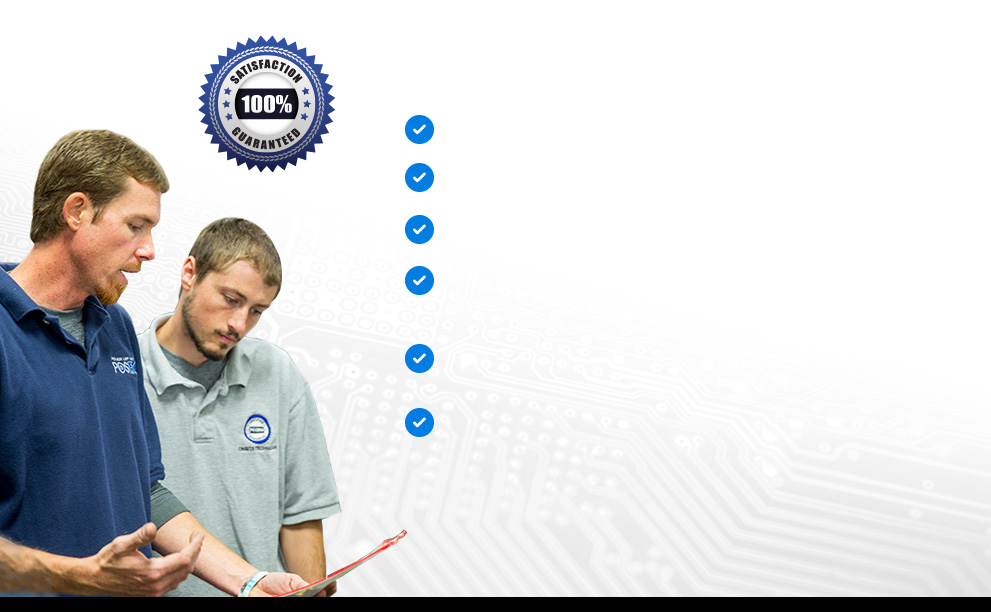
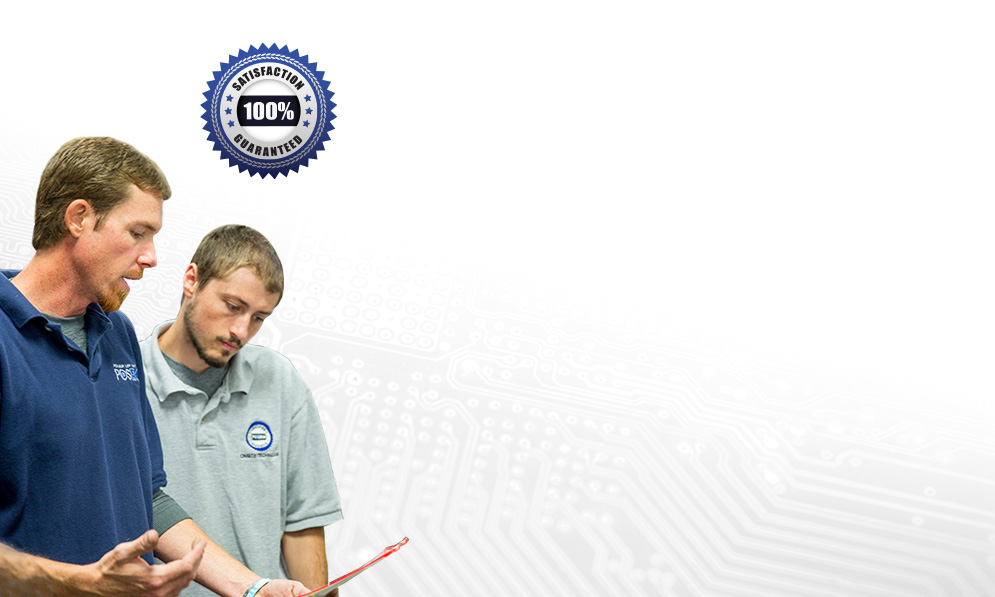
blue check fix

diff --git a/templates/posrg-mobile/less/mobile.less b/templates/posrg-mobile/less/mobile.less
@@ -2181,6 +2181,17 @@ div#comments {
     position: absolute;
     width: 270px;
 }
+
+.repair-banner p:before {
+    content: '';
+    position: absolute;
+    height: 31px;
+    width: 31px;
+    background: url(../images/blue-check.png) center center no-repeat;
+    margin-left: -40px;
+    margin-top: 0px
+}
+
 .repair-banner {
 	p {
 		&:nth-child(6) {
@@ -2235,6 +2246,16 @@ div#comments {
     max-width: 276px;
     margin-left: 125px;
 }
+
+.why-choose-repair p:before {
+    content: '';
+    position: absolute;
+    height: 31px;
+    width: 31px;
+    background: url(../images/blue-check.png) center center no-repeat;
+    margin-left: -40px;
+}
+
 .why-choose-repair {
 	p {
 		&:nth-child(3) {
@@ -2310,7 +2331,20 @@ div#comments {
     background: url(../images/repair-services-mobile.jpg);
     height: 1075px;
     width: 480px;
+    border-bottom: solid 15px #000;
 }
+
+.repair-services p:before {
+    content: '';
+    position: absolute;
+    height: 31px;
+    width: 31px;
+    background: url(../images/blue-check.png) center center no-repeat;
+    margin-left: -40px;
+    margin-top: 0px;
+}
+
+
 .repair-services .h1-mobile {
 	font-size: 21px !important;
     text-align: center;

diff --git a/templates/posrg-mobile/css/mobile.css b/templates/posrg-mobile/css/mobile.css
@@ -2099,6 +2099,15 @@ div#comments {
   position: absolute;
   width: 270px;
 }
+.repair-banner p:before {
+  content: '';
+  position: absolute;
+  height: 31px;
+  width: 31px;
+  background: url(../images/blue-check.png) center center no-repeat;
+  margin-left: -40px;
+  margin-top: 0px;
+}
 .repair-banner p:nth-child(6) {
   margin-left: 123px;
   margin-top: 18px;
@@ -2147,6 +2156,14 @@ div#comments {
   font-weight: 100;
   max-width: 276px;
   margin-left: 125px;
+}
+.why-choose-repair p:before {
+  content: '';
+  position: absolute;
+  height: 31px;
+  width: 31px;
+  background: url(../images/blue-check.png) center center no-repeat;
+  margin-left: -40px;
 }
 .why-choose-repair p:nth-child(3) {
   margin-top: 33px;
@@ -2219,6 +2236,16 @@ div#comments {
   background: url(../images/repair-services-mobile.jpg);
   height: 1075px;
   width: 480px;
+  border-bottom: solid 15px #000;
+}
+.repair-services p:before {
+  content: '';
+  position: absolute;
+  height: 31px;
+  width: 31px;
+  background: url(../images/blue-check.png) center center no-repeat;
+  margin-left: -40px;
+  margin-top: 0px;
 }
 .repair-services .h1-mobile {
   font-size: 21px !important;

diff --git a/templates/posrg/css/style.css b/templates/posrg/css/style.css
@@ -3869,6 +3869,17 @@ div#comments {
     letter-spacing: .02em;
     position: absolute;
 }
+
+.repair-banner p:before {
+    content: '';
+    position: absolute;
+    height: 31px;
+    width: 31px;
+    background: url(../images/blue-check.png) center center no-repeat;
+    margin-left: -40px;
+    margin-top: -6px;
+}
+
 .repair-banner p:nth-child(6) {
 	left: 170px;
     top: 462px;
@@ -3916,6 +3927,15 @@ div#comments {
     font-weight: 100;
     max-width: 322px;
 }
+.why-choose-repair p:before {
+    content: '';
+    position: absolute;
+    height: 31px;
+    width: 31px;
+    background: url(../images/blue-check.png) center center no-repeat;
+    margin-left: -40px;
+}
+
 .why-choose-repair p:nth-child(3) {
     margin-left: 141px;
     margin-top: 39px;
@@ -4014,6 +4034,17 @@ div#comments {
     max-width: 515px;
     margin-left: 448px;
 }
+
+.repair-services p:before {
+    content: '';
+    position: absolute;
+    height: 31px;
+    width: 31px;
+    background: url(../images/blue-check.png) center center no-repeat;
+    margin-left: -40px;
+    margin-top: -3px;
+}
+
 .repair-services p:nth-child(3) {
     margin-top: 27px;
 }
